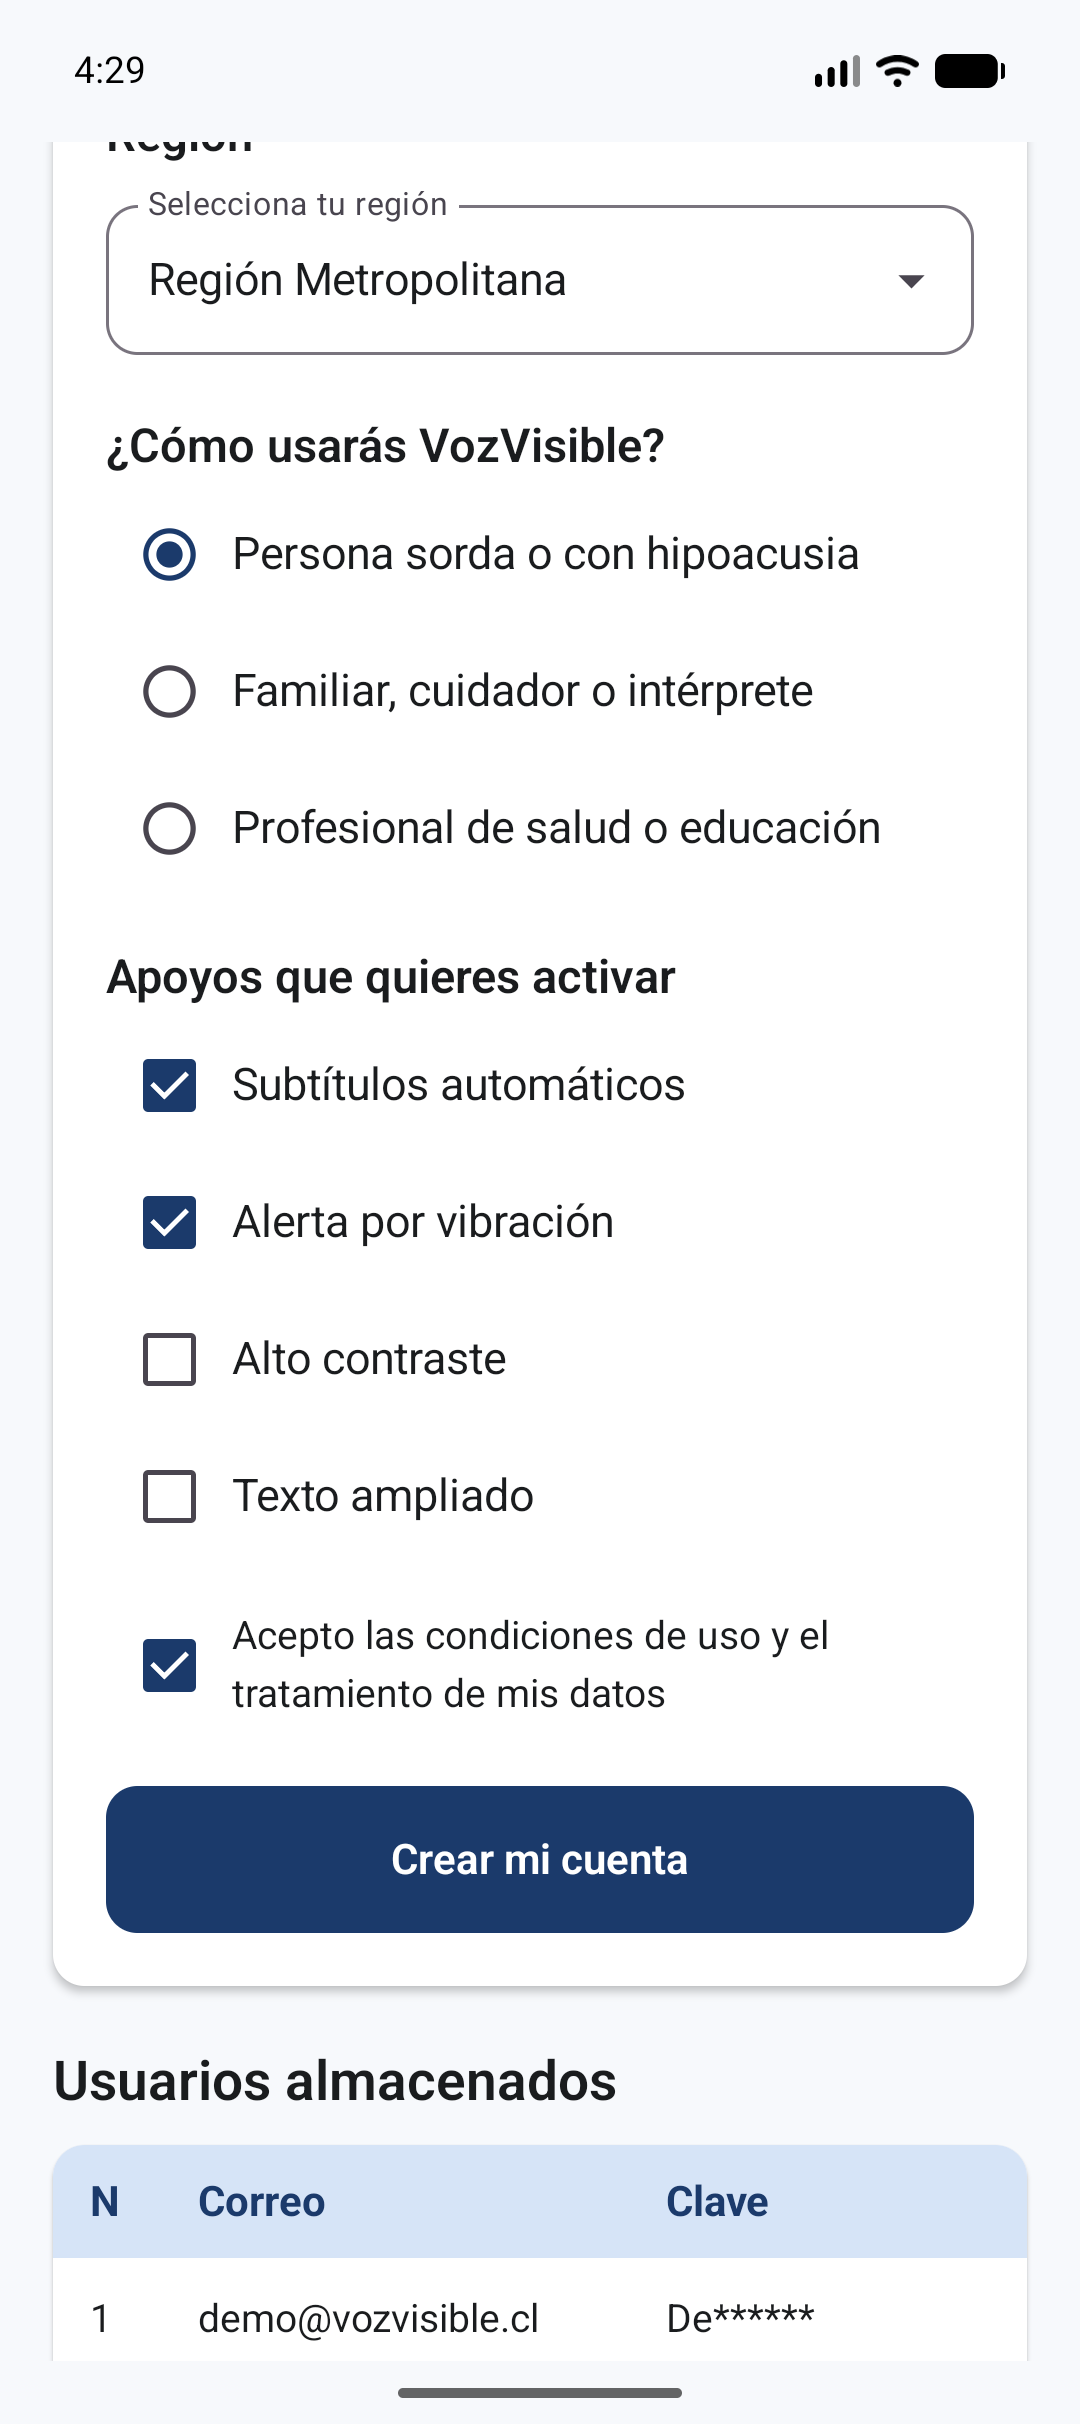
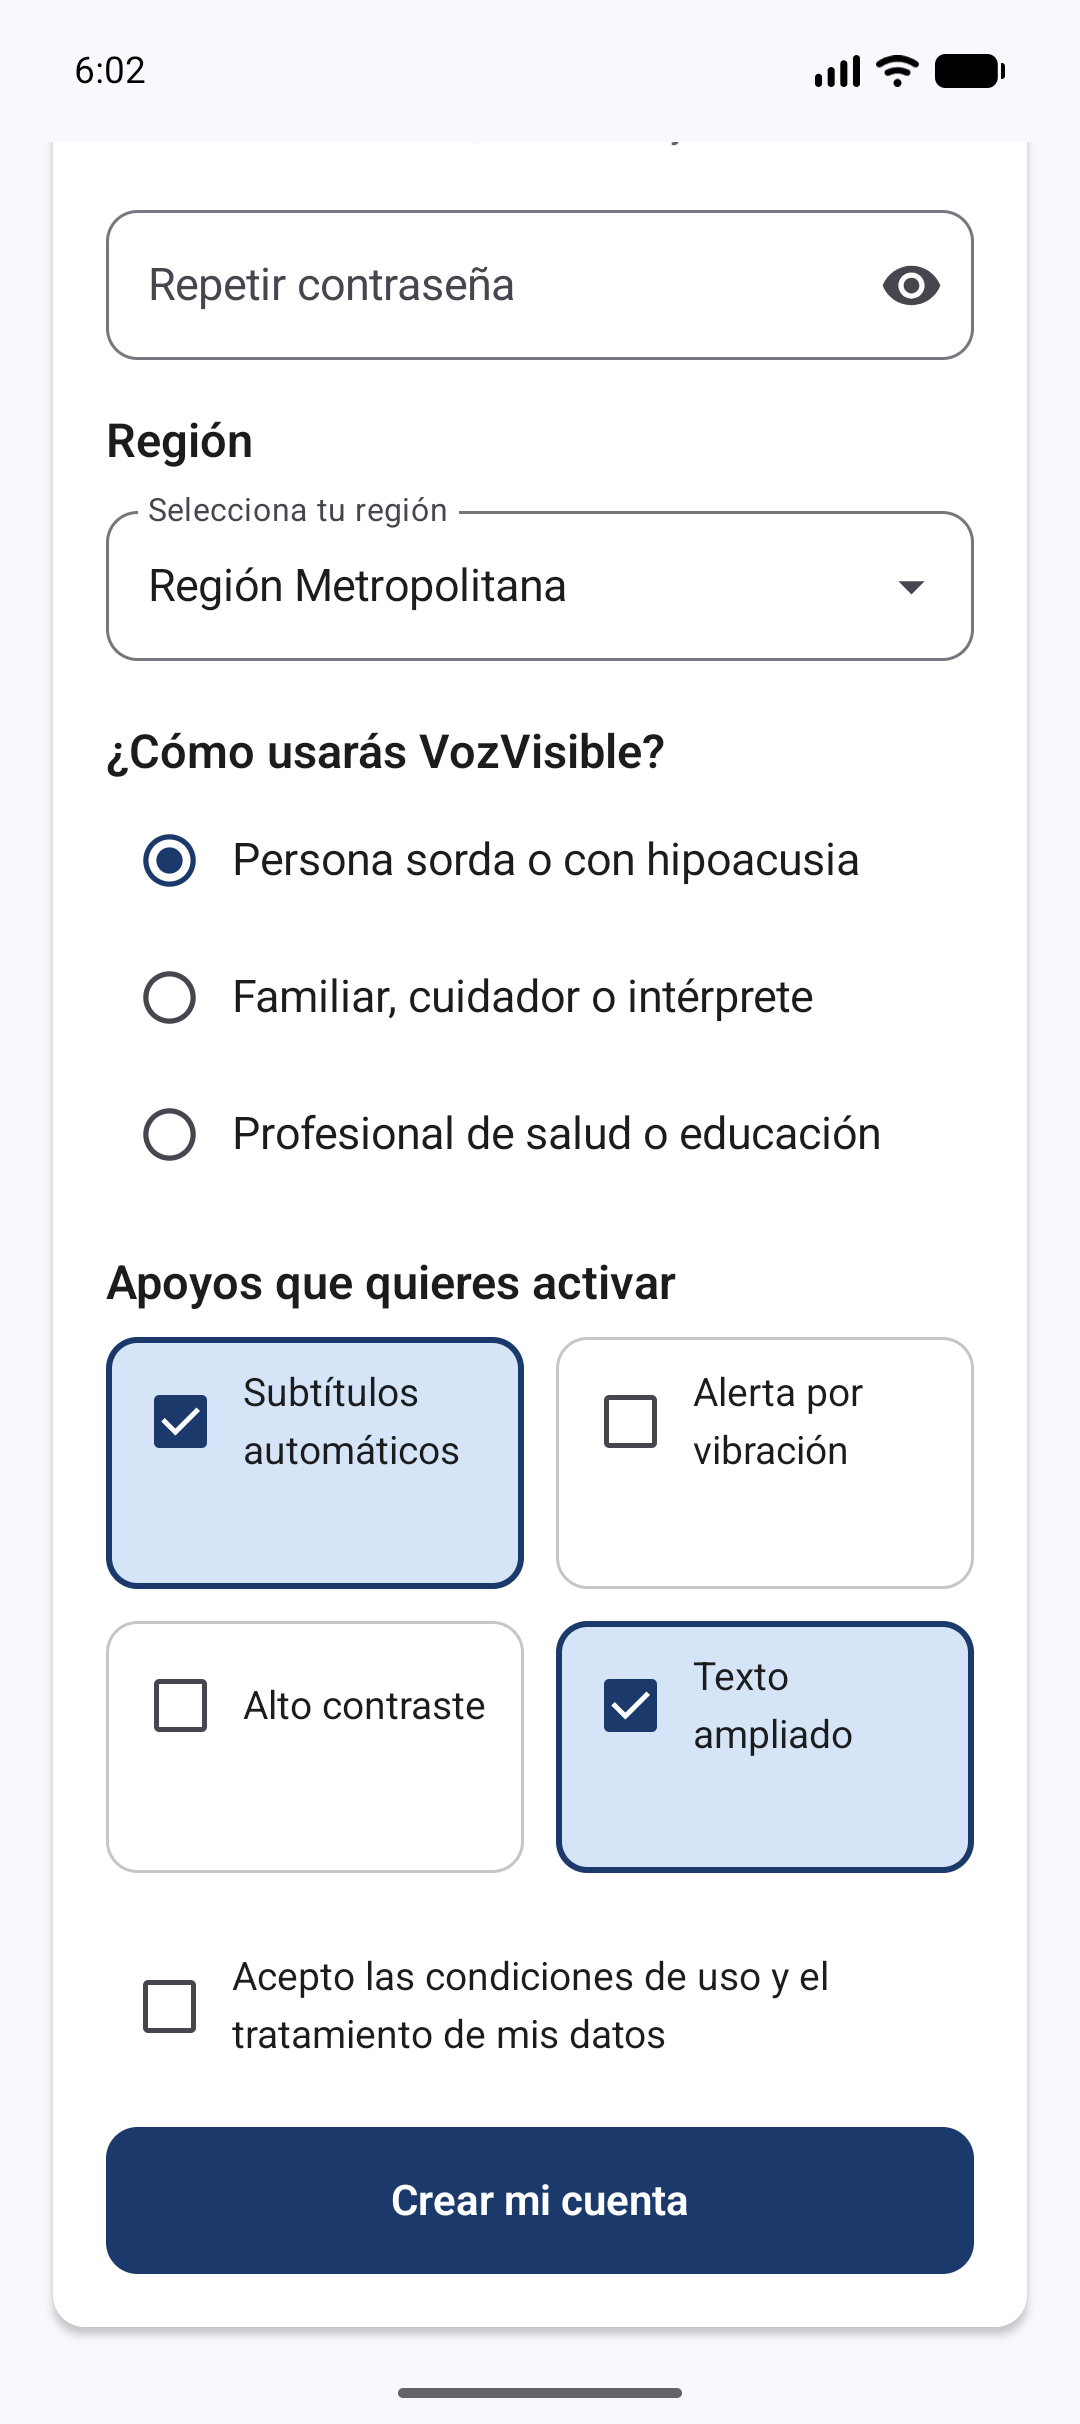
los apoyos ahora van en grilla de 2 columnas y el recordar correo por fin guarda algo

diff --git a/app/src/main/java/cl/duoc/vozvisible/ui/screens/RegistroScreen.kt b/app/src/main/java/cl/duoc/vozvisible/ui/screens/RegistroScreen.kt
@@ -1,6 +1,7 @@
 package cl.duoc.vozvisible.ui.screens
 
 import androidx.compose.foundation.background
+import androidx.compose.foundation.BorderStroke
 import androidx.compose.foundation.clickable
 import androidx.compose.foundation.layout.Arrangement
 import androidx.compose.foundation.layout.Column
@@ -274,32 +275,27 @@ fun RegistroScreen(alVolver: () -> Unit) {
                     style = MaterialTheme.typography.titleMedium,
                     color = MaterialTheme.colorScheme.onSurface
                 )
-                Spacer(Modifier.height(4.dp))
-                APOYOS.forEach { apoyo ->
-                    val marcado = apoyo in apoyosElegidos
+                Spacer(Modifier.height(10.dp))
+                // los dejo en dos columnas, se ven mejor que en lista
+                APOYOS.chunked(2).forEach { fila ->
                     Row(
-                        modifier = Modifier
-                            .fillMaxWidth()
-                            .heightIn(min = 52.dp)
-                            .clickable {
-                                if (marcado) apoyosElegidos.remove(apoyo)
-                                else apoyosElegidos.add(apoyo)
-                            },
-                        verticalAlignment = Alignment.CenterVertically
+                        modifier = Modifier.fillMaxWidth(),
+                        horizontalArrangement = Arrangement.spacedBy(12.dp)
                     ) {
-                        Checkbox(
-                            checked = marcado,
-                            onCheckedChange = {
-                                if (marcado) apoyosElegidos.remove(apoyo)
-                                else apoyosElegidos.add(apoyo)
-                            }
-                        )
-                        Text(
-                            text = apoyo,
-                            style = MaterialTheme.typography.bodyLarge,
-                            color = MaterialTheme.colorScheme.onSurface
-                        )
+                        fila.forEach { apoyo ->
+                            CeldaApoyo(
+                                texto = apoyo,
+                                marcado = apoyo in apoyosElegidos,
+                                alPulsar = {
+                                    if (apoyo in apoyosElegidos) apoyosElegidos.remove(apoyo)
+                                    else apoyosElegidos.add(apoyo)
+                                },
+                                modifier = Modifier.weight(1f)
+                            )
+                        }
+                        if (fila.size == 1) Spacer(Modifier.weight(1f))
                     }
+                    Spacer(Modifier.height(12.dp))
                 }
 
                 Spacer(Modifier.height(12.dp))
@@ -334,6 +330,41 @@ fun RegistroScreen(alVolver: () -> Unit) {
         Spacer(Modifier.height(24.dp))
         TablaRegistrados()
         Spacer(Modifier.height(32.dp))
+    }
+}
+
+@Composable
+private fun CeldaApoyo(
+    texto: String,
+    marcado: Boolean,
+    alPulsar: () -> Unit,
+    modifier: Modifier = Modifier
+) {
+    val borde = if (marcado) MaterialTheme.colorScheme.primary
+    else MaterialTheme.colorScheme.onSurface.copy(alpha = 0.25f)
+
+    Card(
+        onClick = alPulsar,
+        modifier = modifier.heightIn(min = 96.dp),
+        shape = RoundedCornerShape(12.dp),
+        border = BorderStroke(if (marcado) 2.dp else 1.dp, borde),
+        colors = CardDefaults.cardColors(
+            containerColor = if (marcado) MaterialTheme.colorScheme.primaryContainer
+            else MaterialTheme.colorScheme.surface
+        ),
+        elevation = CardDefaults.cardElevation(defaultElevation = 0.dp)
+    ) {
+        Row(
+            modifier = Modifier.padding(start = 4.dp, end = 12.dp, top = 8.dp, bottom = 8.dp),
+            verticalAlignment = Alignment.CenterVertically
+        ) {
+            Checkbox(checked = marcado, onCheckedChange = { alPulsar() })
+            Text(
+                text = texto,
+                style = MaterialTheme.typography.bodyMedium,
+                color = MaterialTheme.colorScheme.onSurface
+            )
+        }
     }
 }
 

diff --git a/app/src/main/java/cl/duoc/vozvisible/ui/screens/LoginScreen.kt b/app/src/main/java/cl/duoc/vozvisible/ui/screens/LoginScreen.kt
@@ -25,6 +25,8 @@ import androidx.compose.ui.Alignment
 import androidx.compose.ui.Modifier
 import androidx.compose.ui.tooling.preview.Preview
 import androidx.compose.ui.unit.dp
+import androidx.compose.ui.platform.LocalContext
+import cl.duoc.vozvisible.data.PreferenciasLocales
 import cl.duoc.vozvisible.data.UsuarioRepository
 import cl.duoc.vozvisible.ui.correoValido
 import cl.duoc.vozvisible.ui.theme.VozVisibleTheme
@@ -35,9 +37,13 @@ fun LoginScreen(
     alRegistrarse: () -> Unit,
     alRecuperar: () -> Unit
 ) {
-    var correo by remember { mutableStateOf("") }
+    val contexto = LocalContext.current
+    val prefs = remember { PreferenciasLocales(contexto) }
+    val guardado = remember { prefs.correoRecordado }
+
+    var correo by remember { mutableStateOf(guardado.orEmpty()) }
     var contrasena by remember { mutableStateOf("") }
-    var recordar by remember { mutableStateOf(false) }
+    var recordar by remember { mutableStateOf(guardado != null) }
     var errorCorreo by remember { mutableStateOf<String?>(null) }
     var errorContrasena by remember { mutableStateOf<String?>(null) }
     var errorAcceso by remember { mutableStateOf<String?>(null) }
@@ -52,6 +58,7 @@ fun LoginScreen(
             errorAcceso = "No encontramos una cuenta con ese correo y esa contraseña"
         } else {
             errorAcceso = null
+            prefs.correoRecordado = if (recordar) usuario.correo else null
             alIngresar(usuario.correo)
         }
     }

diff --git a/app/src/main/java/cl/duoc/vozvisible/data/PreferenciasLocales.kt b/app/src/main/java/cl/duoc/vozvisible/data/PreferenciasLocales.kt
@@ -1,0 +1,22 @@
+package cl.duoc.vozvisible.data
+
+import android.content.Context
+
+// guarda el correo en el dispositivo para no tener que escribirlo cada vez
+class PreferenciasLocales(context: Context) {
+
+    private val prefs = context.getSharedPreferences("vozvisible", Context.MODE_PRIVATE)
+
+    var correoRecordado: String?
+        get() = prefs.getString(CLAVE_CORREO, null)
+        set(valor) {
+            prefs.edit().apply {
+                if (valor.isNullOrBlank()) remove(CLAVE_CORREO) else putString(CLAVE_CORREO, valor)
+                apply()
+            }
+        }
+
+    private companion object {
+        const val CLAVE_CORREO = "correo_recordado"
+    }
+}
